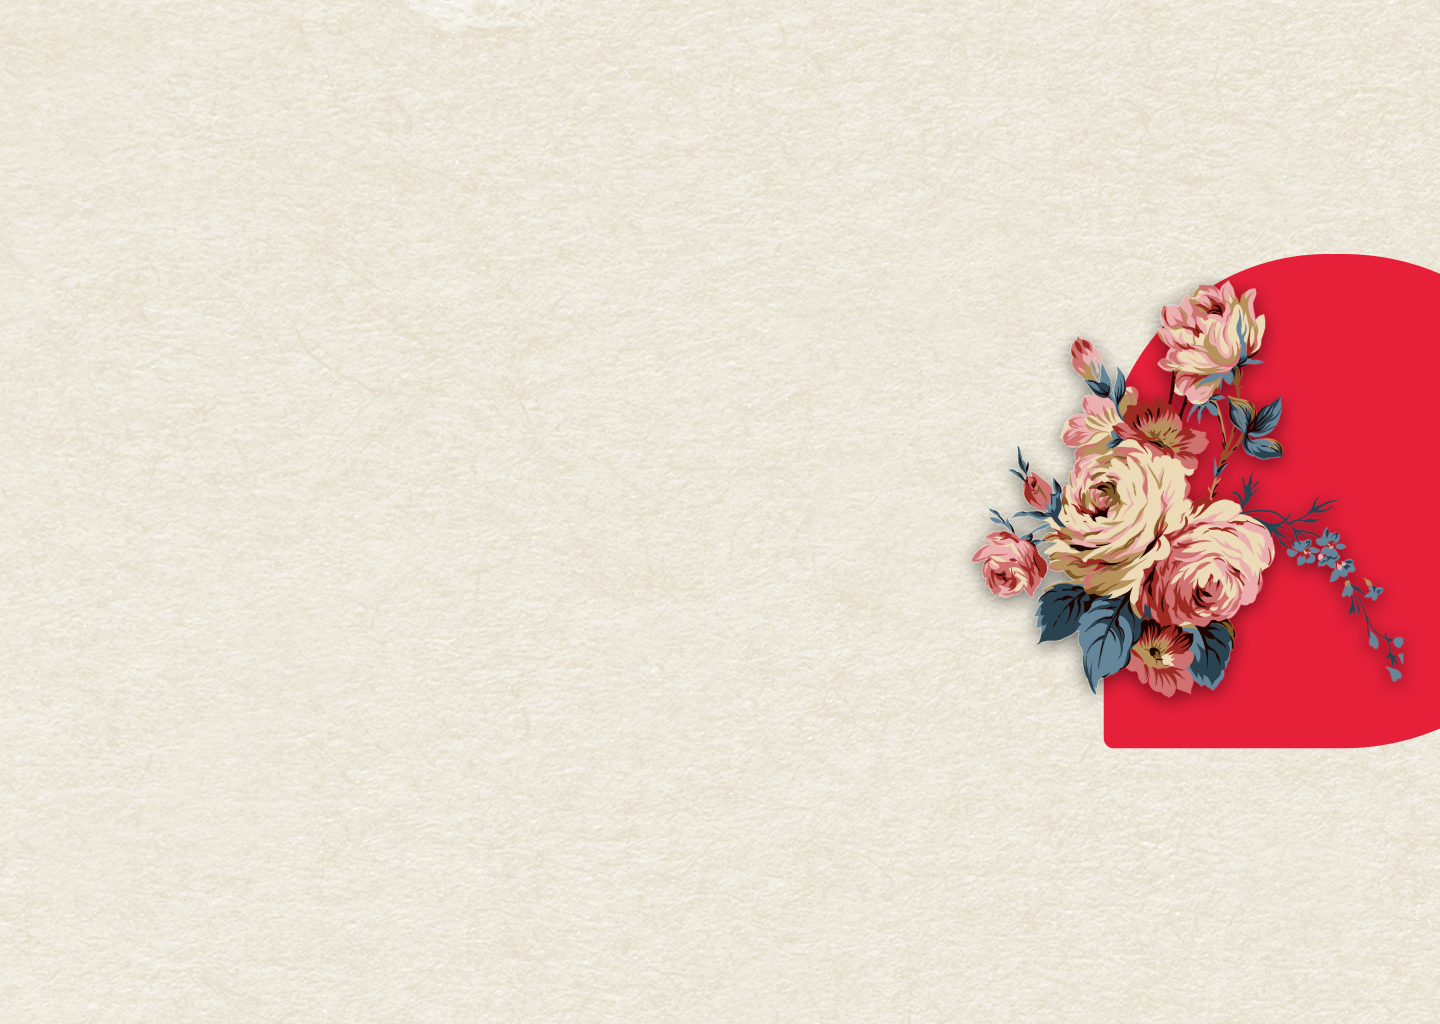
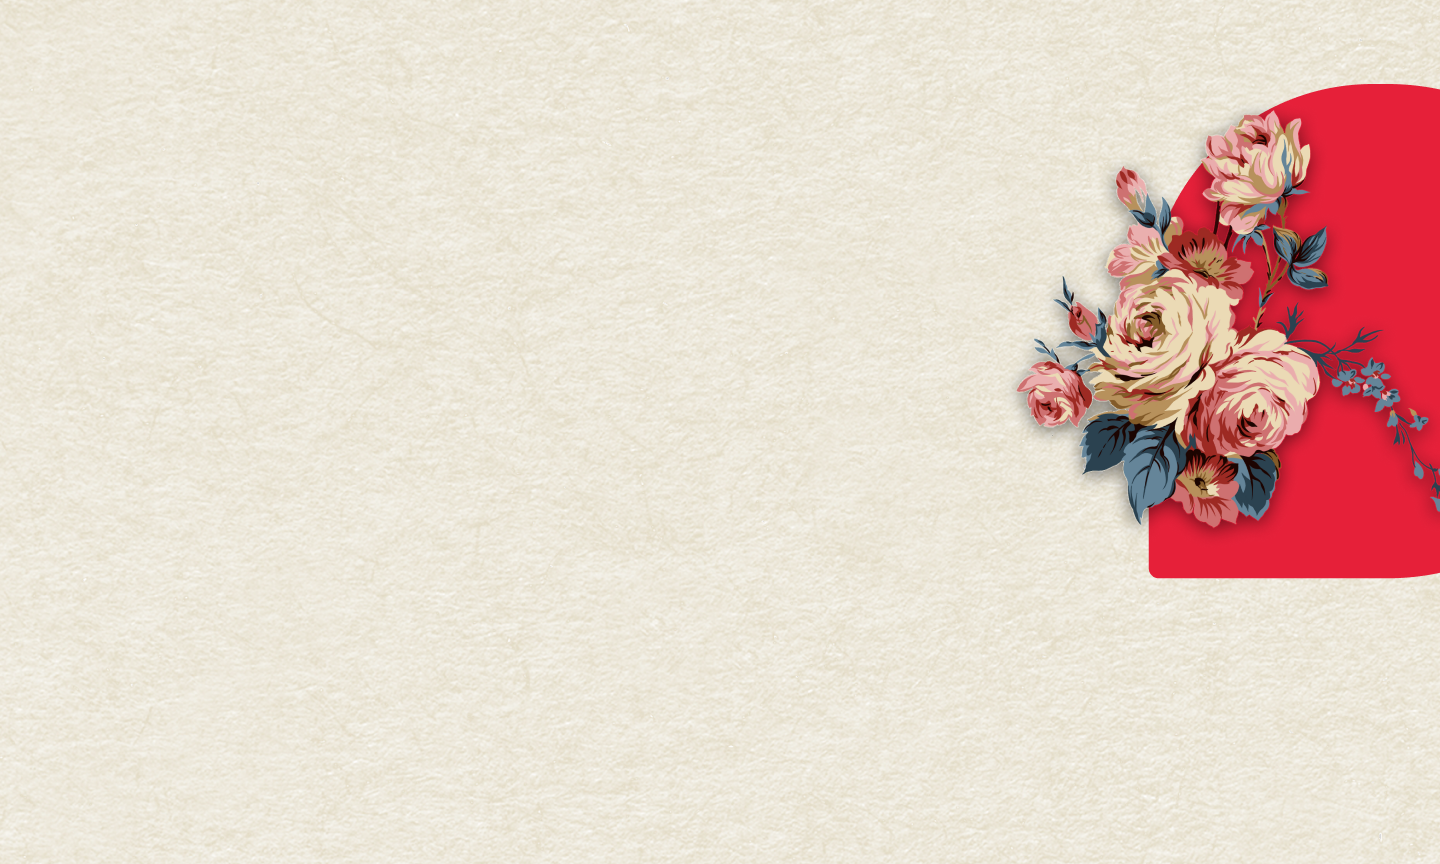
feature: landing page

Changed region(s): [[0.6562, 0.0938, 1.0, 0.75]]

diff --git a/src/containers/explain/index.tsx b/src/containers/explain/index.tsx
@@ -1,0 +1,59 @@
+import { Flex, Heading, Text } from '@chakra-ui/react'
+
+export const Explain = () => {
+  return (
+    <Flex flexDirection="column" maxW="800" px={['1rem', '1.5rem', '6rem']}>
+      <Heading color="primary.red" letterSpacing="5px" fontWeight="900">
+        Como
+      </Heading>
+      <Text
+        color="gray.600"
+        fontWeight="700"
+        fontSize="1.2rem"
+        maxW={[240, 300, 600]}
+      >
+        Conduzir pacientes em uso de psicofármacos de forma clara, eficiente e
+        segura?
+      </Text>
+
+      <Text
+        color="gray.500"
+        mt="2rem"
+        maxW={[200, 300, 600]}
+        textAlign="justify"
+      >
+        Durante anos recebo diversas mensagens de psicólogos que têm medo de
+        conduzir pacientes que fazem uso de psicotrópicos. Todos alegam que após
+        a consulta sempre ficam preocupadas com as orientações que deram por não
+        ter domínio sobre o assunto
+      </Text>
+      <Text color="gray.500" mt="2rem" textAlign="justify">
+        Fui pesquisar a fundo e descobri que existe uma brecha enorme no ensino
+        tradicional de psicologia, que aprofunda os conhecimentos de
+        psicofarmacologia para esses profissionais que fatalmente lidarão com
+        essa temática.{' '}
+        <span style={{ color: '#6b6b6b', fontWeight: '700' }}>
+          O que prejudica sua qualidade técnica
+        </span>
+        . <br /> <br />
+        Continuei pesquisando formas de como meus colegas poderiam ter acesso a
+        esses estudos e a cada pesquisa minha preocupação só aumentava, pois
+        para ter acesso a esses conteúdos seria necessário um investimento de
+        tempo e dinheiro incompatíveis com a realidade da maioria de nós
+        Construir um consultório, encher uma agenda e ter uma renda alta e
+        estável, não é uma tarefa fácil. A maioria de nós precisa escolher entre
+        cursos de capacitação, marketing, supervisão, além dos próprios
+        atendimentos. Tornando muito difícil se dedicar a estudar assuntos que
+        não temos muita propriedade. <br /> <br />
+        Mas eu não podia ficar parado, afinal, nós que cuidamos da saúde mental
+        temos uma responsabilidade enorme em nossas mãos, transformamos vidas
+        através das nossas conduções. <br /> <br /> Porém, em anos de busca, não
+        consegui encontrar nenhum material que por sentir uma grande necessidade
+        de ajudar esses profissionais a potencializarem suas capacidades de
+        transformação orientando e conduzindo os pacientes da forma mais
+        completa, porém não estava enxergando uma forma de entregar esses
+        conteúdos.
+      </Text>
+    </Flex>
+  )
+}

diff --git a/src/containers/idea/index.tsx b/src/containers/idea/index.tsx
@@ -1,0 +1,64 @@
+import { Flex, Image, Text } from '@chakra-ui/react'
+import { SolidButton } from '~/components/Buttons/SolidButton'
+
+export const Idea = () => {
+  return (
+    <Flex
+      flexDirection="column"
+      px={['1rem', '1.5rem', '6rem']}
+      maxW="1000px"
+      marginLeft="auto"
+    >
+      <Image
+        display={['none', 'none', 'block']}
+        w="75%"
+        src="/images/path.png"
+      />
+      <Text
+        color="gray.500"
+        w="100%"
+        maxW={[220, 360, 1000]}
+        pt={['13rem', '8rem', '2rem']}
+        textAlign="justify"
+        align-self="flex-end"
+        marginLeft="auto"
+      >
+        Foi então que surgiu a{' '}
+        <span
+          style={{ color: '#F69D27', fontWeight: '900', fontSize: '1.2rem' }}
+        >
+          IDÉIA
+        </span>{' '}
+        de montar uma{' '}
+        <span style={{ color: '#6b6b6b', fontWeight: '700' }}>
+          formação de Psicofarmacologia{' '}
+        </span>
+        para psicólogas e outros profissionais da saúde, afinal, estudo e aplico
+        isso há mais de 10 anos (em mais de 10000 atendimentos), o que me trouxe
+        um expertise e enorme segurança sobre essa área, além de ser um
+        professor inteiramente apaixonado por ensinar especificamente esse
+        nicho.
+      </Text>
+      <br />
+      <Text color="gray.500" textAlign="justify" marginLeft="auto">
+        De forma que sempre é um enorme prazer preparar outros profissionais
+        para lidar com essas situações tão delicadas que exigem um conhecimento
+        profundo, correto e ético sobre o assunto O principal e mais comum
+        elogio que recebo de alunos é habilidade de transformar assuntos densos
+        e complexos em simples, leves e práticos. O intuito da formação é
+        entregar da forma mais clara e dinâmica para que esses conceitos sejam
+        aplicados rapidamente e com maestria, são anos de estudos e práticas
+        muito bem condensados para que todos tenham um entendimento total sobre
+        o assunto.
+      </Text>
+      <SolidButton
+        mt={['2rem', '1rem', '1.8rem']}
+        fontSize={['.9rem', '1rem']}
+        px={['1rem']}
+        py={['1.5rem', '1.8rem']}
+      >
+        EU QUERO SER MELHOR
+      </SolidButton>
+    </Flex>
+  )
+}

diff --git a/src/containers/hero/index.tsx b/src/containers/hero/index.tsx
@@ -1,5 +1,46 @@
+import { Flex, Heading, Image, Text } from '@chakra-ui/react'
+import { SolidButton } from '~/components/Buttons/SolidButton'
+
 export const Hero = () => {
-    return (
-        <h1></h1>
-    )
-}   
+  return (
+    <Flex
+      alignItems={['center', 'center', 'flex-start']}
+      flexDirection="column"
+      justifyContent={['flex-start', 'flex-start', 'center', 'center', 'center']}
+      h="100%"
+      minH={["80vh", "80vh", "90vh"]}
+      maxW="800"
+      px={['.5rem', '1.5rem', '6rem']}
+      textAlign={['center', 'center', 'inherit']}
+      gap=".5rem"
+    >
+      <Image
+        src="images/logo.svg"
+        w={['20%', '30%']}
+        mt={['1rem', '1rem', 0]}
+      />
+      <Heading
+        color="primary.orange"
+        pt={['2rem', '2rem']}
+        fontSize={['1.5rem', '1.6rem', '1.8rem']}
+      >
+        Seja uma profissional de saúde que sabe conduzir pacientes em uso de
+        psicofármacos de forma clara, eficiente e segura
+      </Heading>
+      <Text fontSize={['1rem', '1.1rem', '1.1rem']}>
+        Entenda de uma vez por todas os efeitos dos psicofármacos e pare de
+        perder noites de sono pensando se a sua conduta foi ou não correta.
+        Tenha o domínio e a segurança nas suas decisões clínicas sobre a maior
+        parte dos pacientes psiquiátricos em seu consultório de psicologia.
+      </Text>
+      <SolidButton
+        mt={['.5rem', '1rem', '1.8rem']}
+        fontSize={['.9rem', '1rem']}
+        px={['1rem']}
+        py={['1.5rem', '1.8rem']}
+      >
+        EU QUERO SER MELHOR
+      </SolidButton>
+    </Flex>
+  )
+}

diff --git a/src/pages/index.tsx b/src/pages/index.tsx
@@ -2,6 +2,8 @@ import Head from 'next/head'
 
 import { Box, Icon, Text } from '@chakra-ui/react'
 import { Hero } from '~/containers/hero'
+import { Explain } from '~/containers/explain'
+import { Idea } from '~/containers/idea'
 
 export const Home = () => {
   return (
@@ -14,19 +16,21 @@ export const Home = () => {
           backgroundImage={[
             '/images/bg-desktop-mobile.png',
             '/images/bg-desktop-md.png',
+            '/images/bg-desktop-md.png',
+            '/images/bg-desktop-md.png',
             '/images/bg-desktop-lg.png'
           ]}
           backgroundSize="cover"
           backgroundPosition="center"
           backgroundRepeat="no-repeat"
           h="100%"
-          minH="100vh"
+          minH="120vh"
         >
           <Hero />
         </Box>
-        {/* <Box
+        <Box
           backgroundImage={[
-            '/images/bg-how-md.png',
+            '/images/bg-how-mobile.png',
             '/images/bg-how-md.png',
             '/images/bg-how-md.png'
           ]}
@@ -35,11 +39,11 @@ export const Home = () => {
           h="100%"
           minH="115vh"
         >
-          <Hero />
+          <Explain />
         </Box>
         <Box
           backgroundImage={[
-            '/images/bg-idea-md.png',
+            '/images/testidea.png',
             '/images/bg-idea-md.png',
             '/images/bg-idea-md.png'
           ]}
@@ -48,8 +52,8 @@ export const Home = () => {
           h="100%"
           minH="100vh"
         >
-          <Hero />
-        </Box> */}
+          <Idea />
+        </Box>
       </Box>
     </>
   )

diff --git a/src/components/Buttons/SolidButton.tsx b/src/components/Buttons/SolidButton.tsx
@@ -1,12 +1,13 @@
 import { Button as ChakraButton, Image } from '@chakra-ui/react'
 import { ReactNode } from 'react'
 
+
 interface ButtonProps {
   children: ReactNode
   fontSize: any
   w?: any
-  mt?: string
-  px: string
+  mt?: any
+  px: any
   py: any
 }
 
@@ -18,14 +19,14 @@ export const SolidButton = ({ children, fontSize, w, mt, py, px }: ButtonProps) 
       w={w}
       mt={mt}
       fontSize={fontSize}
-      bgColor="gold.500"
+      bgColor="primary.orange"
       textTransform="uppercase"
       gap=".5rem"
       color="#fff"
       alignItems="center"
       fontWeight="bold"
       transition="0.2s all ease"
-      _hover={{ filter: 'drop-shadow(0px 0px 12px #c2ad6045)' }}
+      _hover={{ filter: 'drop-shadow(0px 0px 12px #f69c274b)' }}
       _active={{ opacity: 0.9 }}
       _focus={{ border: 'none' }}
     >

diff --git a/src/styles/theme.ts b/src/styles/theme.ts
@@ -3,28 +3,30 @@ import { extendTheme } from '@chakra-ui/react'
 export const theme = extendTheme({
   colors: {
     gray: {
-      900: '#0d0e10',
-      800: '#0F1013',
+      900: '#030303',
+      800: '#353535',
       700: '#1B1F23',
       600: '#575759',
-      500: '#828282',
+      500: '#959595',
       400: '#a1a1a1',
       300: '#D9D9D9',
       50: '#fff'
     },
-    gold: {
-      500: '#C2AD60'
-    },
+    primary: {
+      orange: '#F69D27',
+      blue: '#46BAB1',
+      red: '#E62039',
+    }
   },
   fonts: {
-    heading: 'Dosis',
-    body: 'Dosis'
+    heading: 'Nunito',
+    body: 'Nunito'
   },
   styles: {
     global: {
       body: {
-        bg: '#101114',
-        color: 'gray.50'
+        bg: '#fff',
+        color: 'gray.400'
       },
       html: {
         scrollBehavior: 'smooth',

diff --git a/src/pages/_document.tsx b/src/pages/_document.tsx
@@ -42,14 +42,7 @@ export default class MyDocument extends Document {
       <Html lang="pt">
         <Head>
           <link rel="preconnect" href="https://fonts.googleapis.com" />
-          <link
-            href="https://fonts.googleapis.com/css2?family=Dosis:wght@300;400;500;600;700&display=swap"
-            rel="stylesheet"
-          />
-          <link
-            href="https://fonts.googleapis.com/css2?family=Roboto:wght@500;700&display=swap"
-            rel="stylesheet"
-          />
+          <link href="https://fonts.googleapis.com/css2?family=Nunito:wght@300;400;700;900&display=swap" rel="stylesheet" />
         </Head>
         <body>
           <Main />
